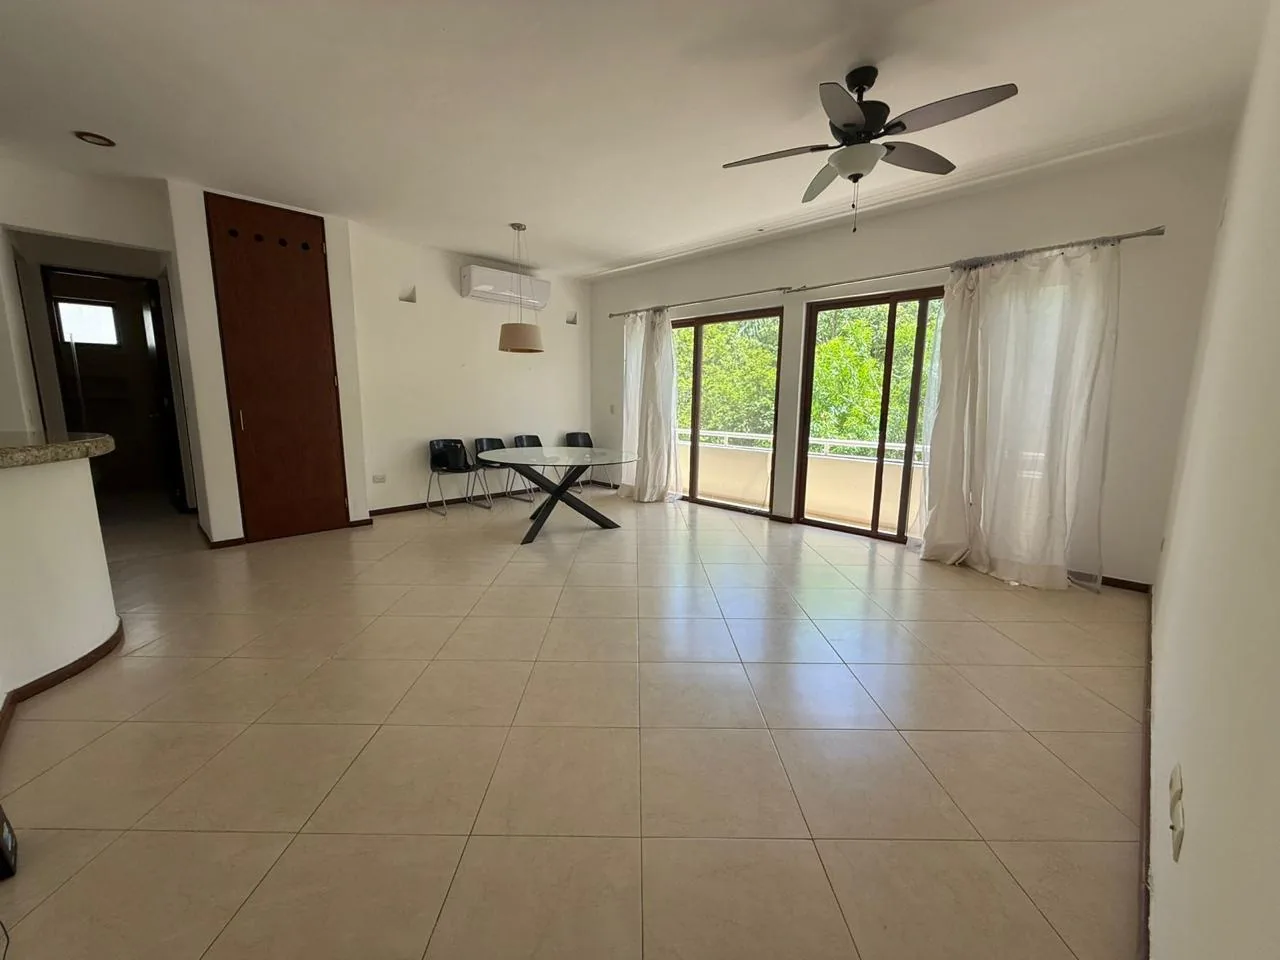
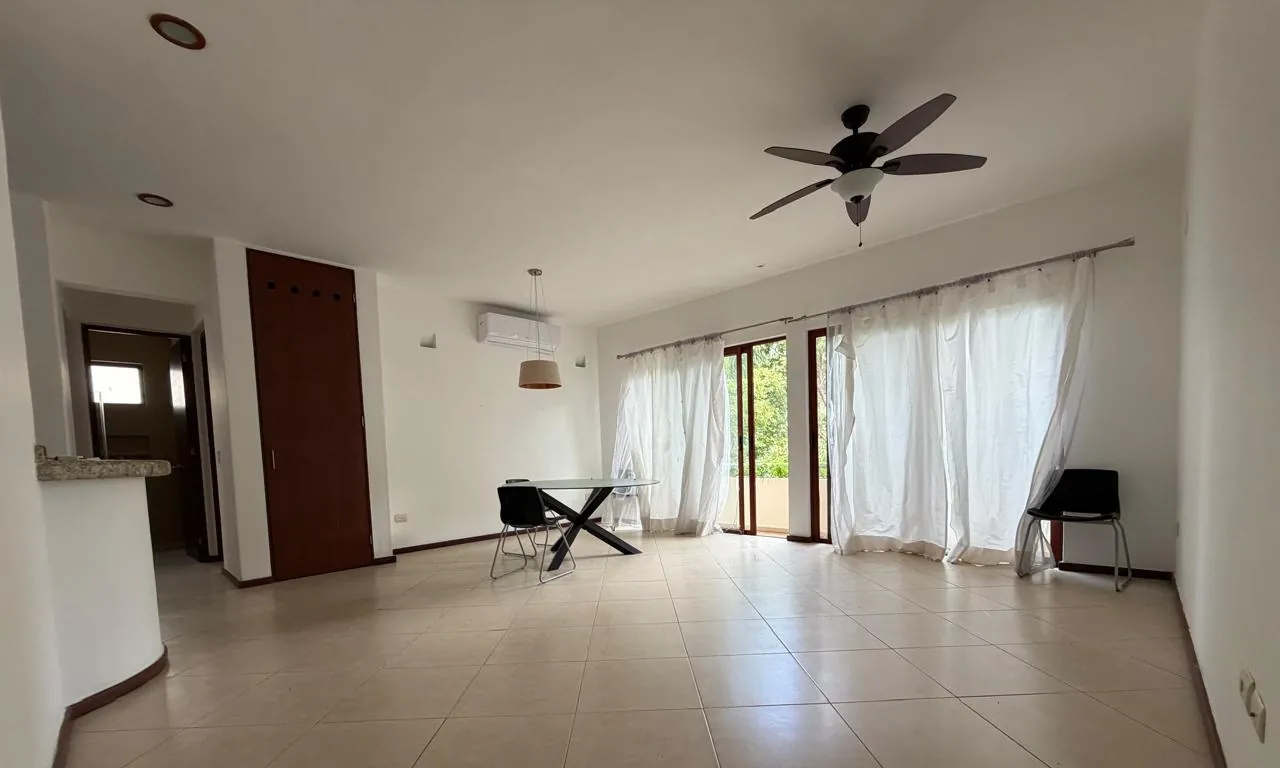
fix: actualiza Departamento Parque Real con la ficha y fotos nuevas (3 rec, 3 baños)
Claude-Session: https://claude.ai/code/session_01JpsHqjhzoxV3GEaqw5Dkva

diff --git a/lib/properties.js b/lib/properties.js
@@ -171,13 +171,13 @@ export const properties = [
 
     // ── Taxonomía ──────────────────────────────────────────────
     operation: "venta",
-    saleType: "reventa",
+    saleType: null, // venta (no se presenta como reventa ni preventa)
     category: ["departamento"],
     city: "Playa del Carmen",
     zoneSlug: "selvamar",
     developmentSlug: null,
-    bedrooms: 2,
-    bathrooms: 2,
+    bedrooms: 3,
+    bathrooms: 3,
     area: { built: 118.78, lot: null, unit: "m2" },
     status: "disponible",
     featured: false,
@@ -199,21 +199,31 @@ export const properties = [
 
     // ── Imágenes ─────────────────────────────────────────────────
     cardImage: "/propiedades/departamento-parque-real/alberca-isla-01.webp",
-    heroImage: "/propiedades/departamento-parque-real/fachada-01.webp",
+    heroImage: "/propiedades/departamento-parque-real/balcon-01.webp",
     gallery: [
       "/propiedades/departamento-parque-real/estancia-01.webp",
-      "/propiedades/departamento-parque-real/cocina-01.webp",
       "/propiedades/departamento-parque-real/balcon-01.webp",
+      "/propiedades/departamento-parque-real/cocina-01.webp",
+      "/propiedades/departamento-parque-real/recamara-principal-01.webp",
+      "/propiedades/departamento-parque-real/balcon-02.webp",
+      "/propiedades/departamento-parque-real/recamara-02.webp",
+      "/propiedades/departamento-parque-real/recamara-03.webp",
+      "/propiedades/departamento-parque-real/recamara-lockoff-01.webp",
+      "/propiedades/departamento-parque-real/bano-01.webp",
+      "/propiedades/departamento-parque-real/bano-02.webp",
+      "/propiedades/departamento-parque-real/bano-lockoff-01.webp",
+      "/propiedades/departamento-parque-real/alberca-isla-01.webp",
       "/propiedades/departamento-parque-real/alberca-01.webp",
       "/propiedades/departamento-parque-real/alberca-02.webp",
       "/propiedades/departamento-parque-real/estanque-01.webp",
-      "/propiedades/departamento-parque-real/bano-01.webp",
       "/propiedades/departamento-parque-real/asador-01.webp",
+      "/propiedades/departamento-parque-real/fachada-01.webp",
+      "/propiedades/departamento-parque-real/roof-mvngata-01.webp",
     ],
 
     cardDesc: {
-      es: "Departamento de 2 recámaras en primer piso, dentro de Parque Real, Selvamar, rodeado de selva y con tres albercas.",
-      en: "2-bedroom, first-floor apartment inside Parque Real, Selvamar, surrounded by jungle with three pools.",
+      es: "Departamento de 3 recámaras (una tipo lock-off) y 3 baños completos en primer piso, dentro de Parque Real, Selvamar, rodeado de selva y con tres albercas.",
+      en: "3-bedroom (one lock-off), 3-bathroom first-floor apartment inside Parque Real, Selvamar, surrounded by jungle with three pools.",
     },
     headline: {
       es: "Vive rodeado de selva, a minutos de la playa, con tres albercas y acceso a Club de Playa.",
@@ -222,25 +232,27 @@ export const properties = [
     body: {
       es: [
         "Departamento Parque Real se ubica en Selvamar, Playa del Carmen, dentro de un condominio rodeado de vegetación con estanques naturales y tres albercas.",
-        "118.78 m² de construcción en primer piso, con 2 recámaras con baños completos, cuarto de servicio con baño tipo lock-off, cuarto de lavado, 2 lugares de estacionamiento y 2 bodegas.",
+        "118.78 m² de construcción en primer piso, con balcón con vista a la alberca y la selva. 3 recámaras con baño completo, una de ellas independiente tipo lock-off; cocina equipada, cuarto de lavado, 2 lugares de estacionamiento y 2 bodegas.",
         "El condominio cuenta con jardines, espacios para convivencias y asadores, además de acceso a Club de Playa y roof-top en el Hotel Mvngata, a 2.5 km.",
       ],
       en: [
         "Departamento Parque Real is located in Selvamar, Playa del Carmen, inside a condominium surrounded by vegetation with natural ponds and three pools.",
-        "118.78 m² of construction on the first floor, with 2 bedrooms with full bathrooms, a lock-off staff room with bathroom, laundry room, 2 parking spaces and 2 storage units.",
+        "118.78 m² of construction on the first floor, with a balcony overlooking the pool and the jungle. 3 bedrooms with full bathrooms, one of them an independent lock-off; equipped kitchen, laundry room, 2 parking spaces and 2 storage units.",
         "The condominium features gardens, spaces for gatherings and grills, plus access to the Beach Club and roof-top at Hotel Mvngata, 2.5 km away.",
       ],
     },
     stats: [
-      { value: "2", label: { es: "Recámaras", en: "Bedrooms" } },
-      { value: "2", label: { es: "Baños", en: "Bathrooms" } },
+      { value: "3", label: { es: "Recámaras", en: "Bedrooms" } },
+      { value: "3", label: { es: "Baños", en: "Bathrooms" } },
       { value: "118.78m²", label: { es: "Construcción", en: "Built area" } },
       { value: "2", label: { es: "Estacionamientos", en: "Parking spaces" } },
     ],
     features: [
       { es: "En primer piso", en: "First floor" },
-      { es: "2 recámaras con baños completos", en: "2 bedrooms with full bathrooms" },
-      { es: "Cuarto de servicio con baño (tipo lock-off)", en: "Staff room with bathroom (lock-off)" },
+      { es: "3 recámaras con baño completo", en: "3 bedrooms with full bathrooms" },
+      { es: "Recámara independiente con baño completo (lock-off)", en: "Independent bedroom with full bathroom (lock-off)" },
+      { es: "Balcón con vista a la alberca y la selva", en: "Balcony overlooking the pool and jungle" },
+      { es: "Aire acondicionado y ventiladores de techo", en: "Air conditioning and ceiling fans" },
       { es: "Cuarto de lavado", en: "Laundry room" },
       { es: "2 lugares de estacionamiento", en: "2 parking spaces" },
       { es: "2 bodegas", en: "2 storage units" },
